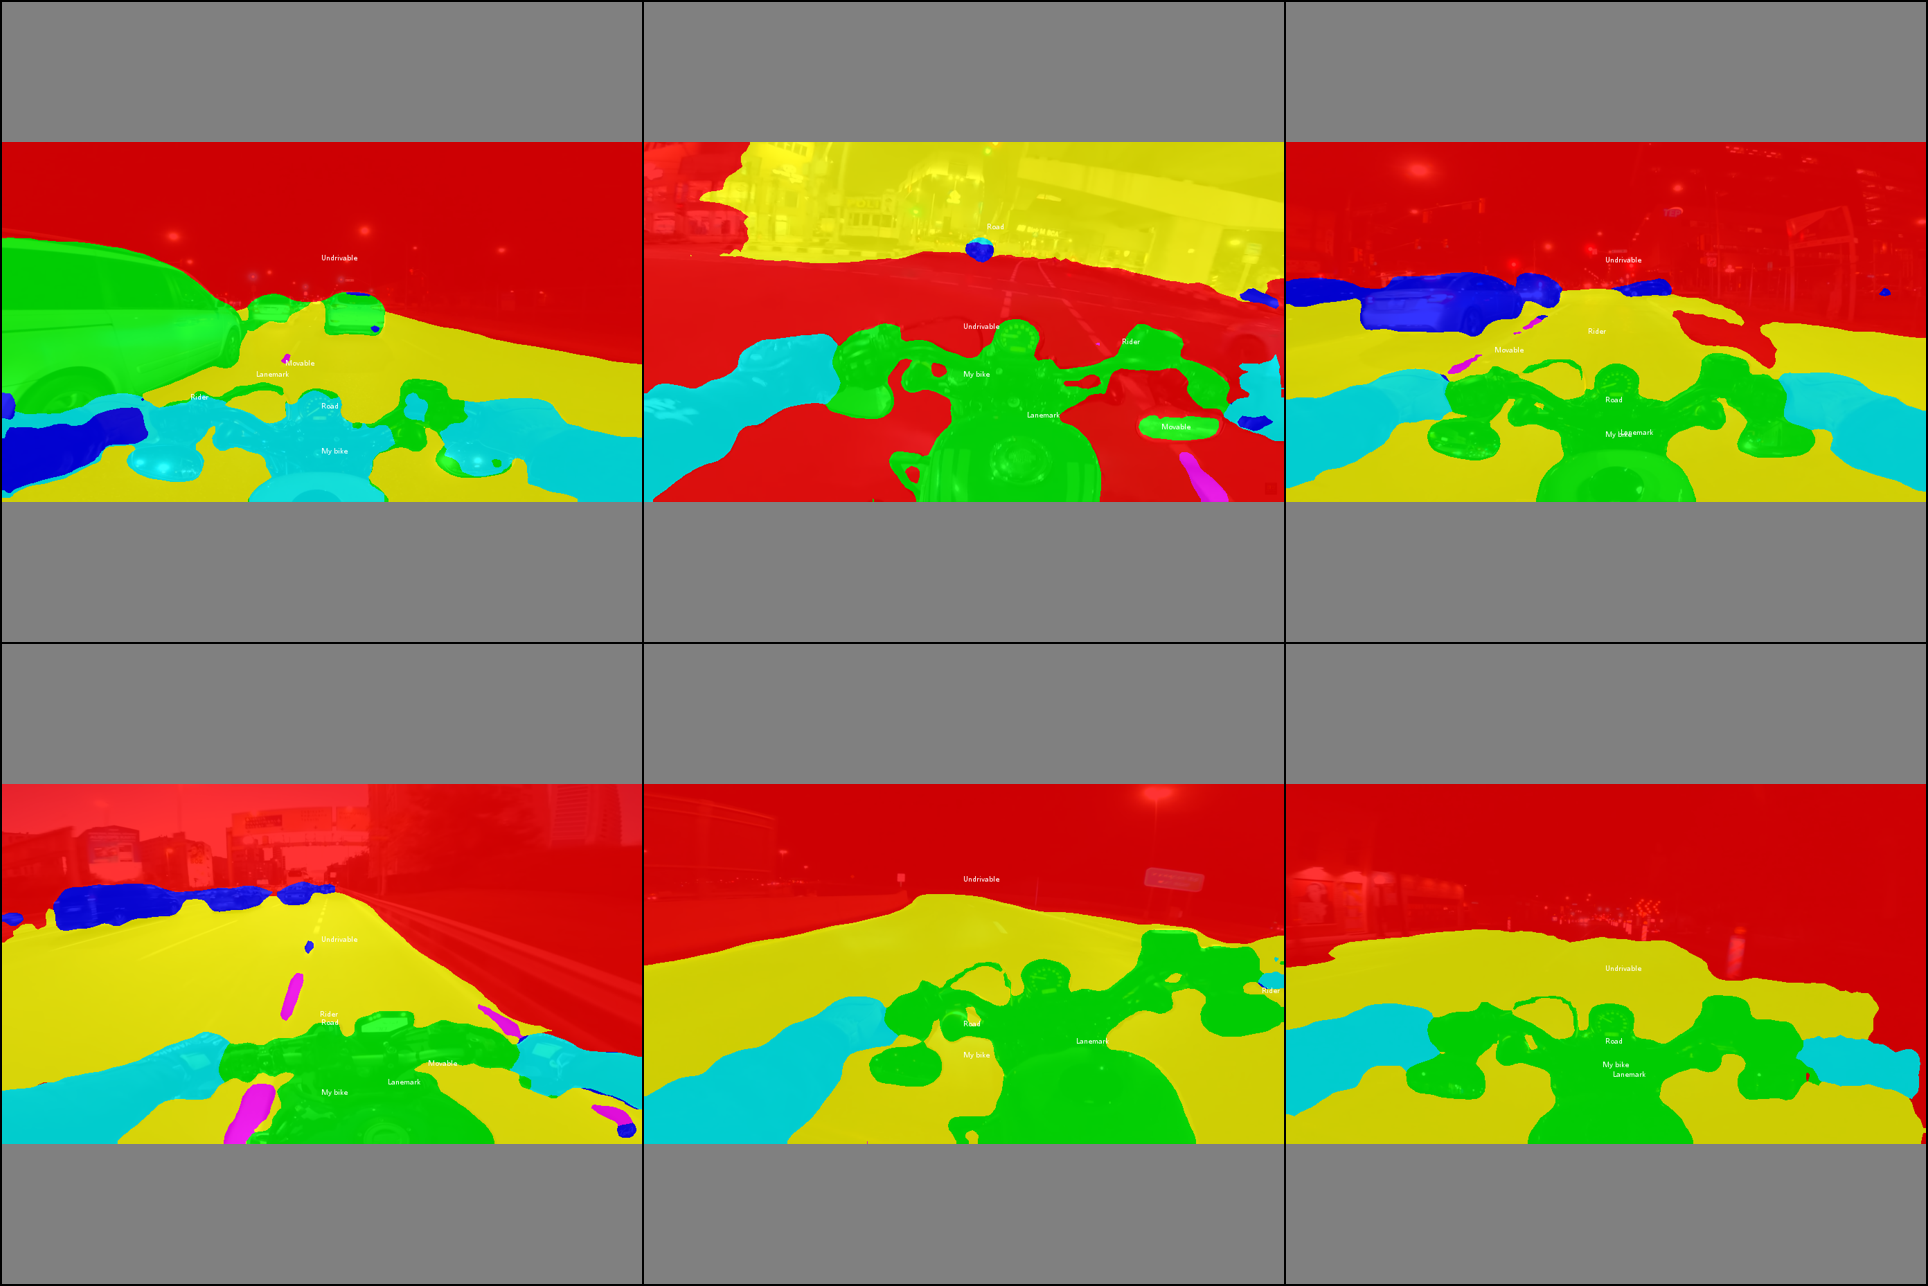
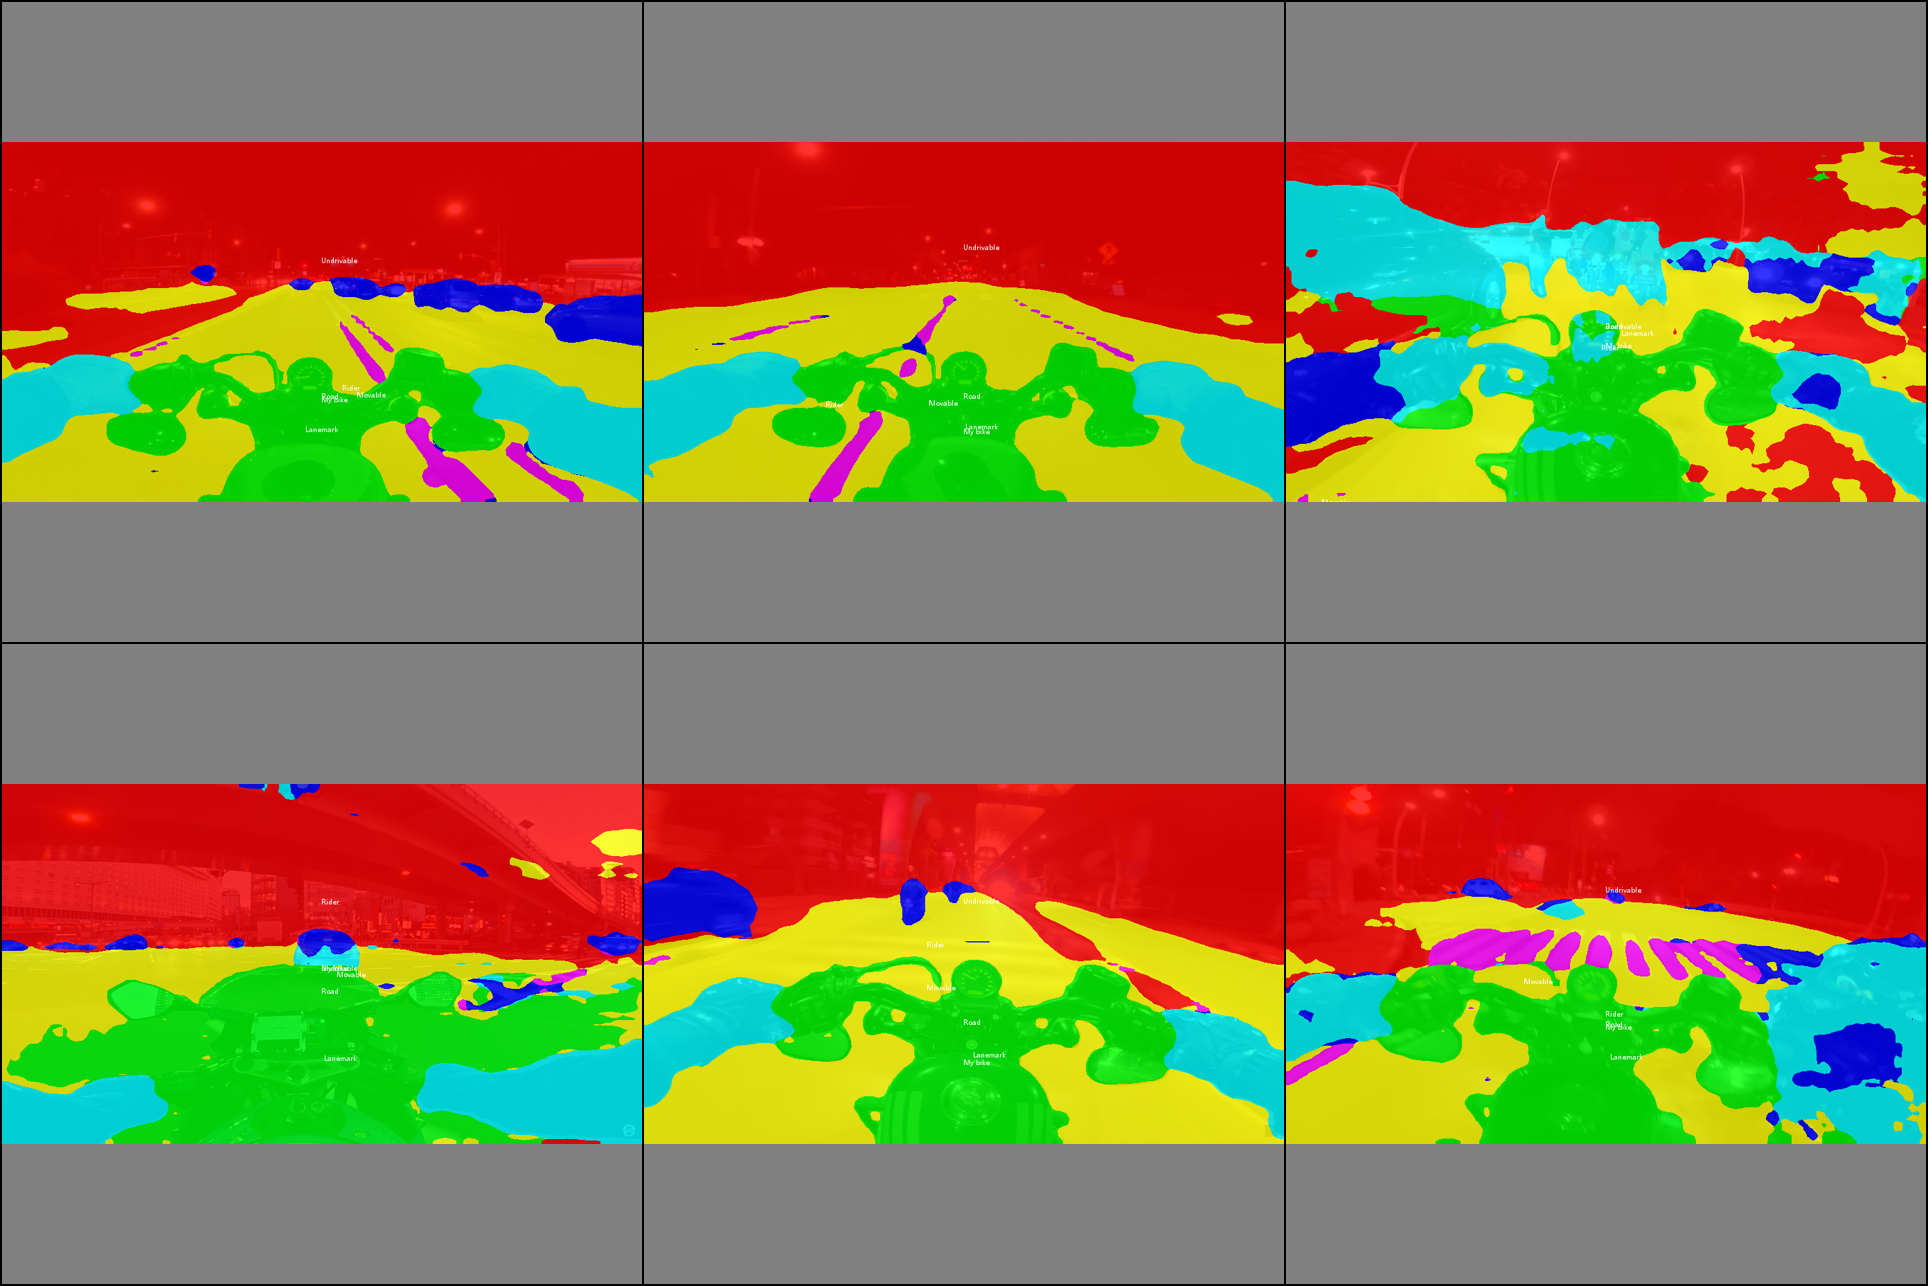
update deeplabv3

diff --git a/deeplabv3/train.py b/deeplabv3/train.py
@@ -10,10 +10,12 @@ from presets import SegmentationPresetTrain, SegmentationPresetEval
 from model import get_model_sematic_segmentation
 
 DATASET_ROOT_PATH = '../../datasets/Motorcycle Night Ride'
-DEFAULT_EPOCHS = 30
+DEFAULT_EPOCHS = 50
 DEFAULT_BATCH_SIZE = 4
 DEFAULT_DEVICE = 'cuda' if torch.cuda.is_available() else 'cpu'
 DEFAULT_SAVE_PATH = 'data/model.pth'
+DEFAULT_WORKERS = 16
+classes = ['Undrivable', 'Road', 'Lanemark', 'My bike', 'Rider', 'Movable']
 
 
 def get_dataloader(opt):
@@ -23,7 +25,8 @@ def get_dataloader(opt):
     :return:
     """
     # 使用数据集
-    train_data = MotorcycleNightRideDataset(DATASET_ROOT_PATH, transforms=SegmentationPresetTrain(base_size=520, crop_size=480))
+    train_data = MotorcycleNightRideDataset(DATASET_ROOT_PATH,
+                                            transforms=SegmentationPresetTrain(base_size=520, crop_size=480))
     test_data = MotorcycleNightRideDataset(DATASET_ROOT_PATH, transforms=SegmentationPresetEval(base_size=520))
 
     # 划分数据集为训练集与测试集
@@ -32,11 +35,11 @@ def get_dataloader(opt):
     test_data = torch.utils.data.Subset(test_data, indices[-50:])
 
     # 定义数据加载器
-    train_dataloader = torch.utils.data.DataLoader(train_data, batch_size=opt.batch_size, shuffle=True, num_workers=4,
-                                                   collate_fn=utils.collate_fn)
+    train_dataloader = torch.utils.data.DataLoader(train_data, batch_size=opt.batch_size, shuffle=True,
+                                                   num_workers=opt.workers, collate_fn=utils.collate_fn)
 
     test_dataloader = torch.utils.data.DataLoader(test_data, batch_size=opt.batch_size, shuffle=False,
-                                                  num_workers=4, collate_fn=utils.collate_fn)
+                                                  num_workers=opt.workers, collate_fn=utils.collate_fn)
     return train_dataloader, test_dataloader
 
 
@@ -72,6 +75,7 @@ def parse_opt():
     parser.add_argument('--batch-size', type=int, default=DEFAULT_BATCH_SIZE, help='batch size')
     parser.add_argument('--device', default=DEFAULT_DEVICE, help='cuda device, i.e. 0 or 0,1,2,3 or cpu')
     parser.add_argument('--save-path', default=DEFAULT_SAVE_PATH, help='model save path')
+    parser.add_argument('--workers', default=DEFAULT_WORKERS, help='max dataloader workers')
     return parser.parse_args()
 
 
@@ -88,14 +92,13 @@ def main(opt):
     # 数据
     train_dataloader, test_dataloader = get_dataloader(opt)
     # 模型
-    classes = ['Undrivable', 'Road', 'Lanemark', 'My bike', 'Rider', 'Movable']
     num_classes = len(classes)
     model = get_model_sematic_segmentation(num_classes).to(opt.device)
     # 参数
     params = [
         {'params': [p for p in model.backbone.parameters() if p.requires_grad]},
         {'params': [p for p in model.classifier.parameters() if p.requires_grad]},
-        # {'params': [p for p in model.aux_classifier.parameters() if p.requires_grad], 'lr': 0.1},
+        {'params': [p for p in model.aux_classifier.parameters() if p.requires_grad], 'lr': 0.1},
     ]
     optimizer = torch.optim.SGD(params, lr=0.01, momentum=0.9, weight_decay=1e-4)  # 优化器
     lr_scheduler = torch.optim.lr_scheduler.PolynomialLR(optimizer, total_iters=len(train_dataloader) * opt.epochs,

diff --git a/deeplabv3/eval.py b/deeplabv3/eval.py
@@ -19,6 +19,8 @@ DATASET_ROOT_PATH = '../../datasets/Motorcycle Night Ride'
 DEFAULT_MODEL_PATH = 'data/model.pth'
 DEFAULT_BATCH_SIZE = 6
 DEFAULT_DEVICE = 'cuda' if torch.cuda.is_available() else 'cpu'
+DEFAULT_WORKERS = 16
+classes = ['Undrivable', 'Road', 'Lanemark', 'My bike', 'Rider', 'Movable']
 
 
 def get_test_data(opt):
@@ -28,16 +30,16 @@ def get_test_data(opt):
     """
     test_data = MotorcycleNightRideDataset(DATASET_ROOT_PATH, transforms=SegmentationPresetEval(base_size=520))
     test_dataloader = torch.utils.data.DataLoader(test_data, batch_size=opt.batch_size, shuffle=True,
-                                                  num_workers=4, collate_fn=utils.collate_fn)
+                                                  num_workers=opt.workers, collate_fn=utils.collate_fn)
 
     x, y = next(iter(test_dataloader))
     x, y = x.to(opt.device), y.to(opt.device)
     return x, y
 
 
-def show_segmentation_result(images, masks, labels, image_size=None, colors=None):
+def show_sematic_segmentation_result(images, masks, labels, image_size=None, colors=None):
     """
-    展示目标检测结果
+    展示语义分割结果
     :param images:
     :param boxes:
     :param labels:
@@ -87,7 +89,7 @@ def show_segmentation_result(images, masks, labels, image_size=None, colors=None
 
 def remove_edge(image):
     """
-    去除图片外围多余黑边
+    去除图片右边以及下边外围多余黑边
     :param image:
     :return:
     """
@@ -131,6 +133,7 @@ def parse_opt():
     parser.add_argument('--model-path', default=DEFAULT_MODEL_PATH, help='model weights path')
     parser.add_argument('--batch-size', type=int, default=DEFAULT_BATCH_SIZE, help='batch size')
     parser.add_argument('--device', default=DEFAULT_DEVICE, help='cuda device, i.e. 0 or 0,1,2,3 or cpu')
+    parser.add_argument('--workers', default=DEFAULT_WORKERS, help='max dataloader workers')
     return parser.parse_args()
 
 
@@ -140,10 +143,8 @@ def main(opt):
     # 数据
     x, y = get_test_data(opt)
     # 模型
-    classes = ['Undrivable', 'Road', 'Lanemark', 'My bike', 'Rider', 'Movable']
     num_classes = len(classes)
     model = get_model_sematic_segmentation(num_classes).to(opt.device)
-    # model = get_model_sematic_segmentation(num_classes).to(opt.device)
     # 参数
     model.load_state_dict(torch.load(opt.model_path))
     # 评估
@@ -165,7 +166,7 @@ def main(opt):
         color = list(map(lambda x: (int(x[0] * 255), int(x[1] * 255), int(x[2] * 255)), color))
         colors = color  # 不去除背景
         # colors = color[1:]  # 去除背景
-        show_segmentation_result(x, masks, labels, image_size=[640, 640], colors=colors)
+        show_sematic_segmentation_result(x, masks, labels, image_size=[640, 640], colors=colors)
 
 
 if __name__ == '__main__':

diff --git a/deeplabv3/model.py b/deeplabv3/model.py
@@ -6,7 +6,7 @@ from torchvision.models.segmentation.fcn import FCNHead
 
 def get_model_sematic_segmentation(num_classes):
     # 加载在COCO上预训练的实例分割模型mask-rcnn
-    model = torchvision.models.segmentation.deeplabv3_resnet50(weights='DEFAULT', weights_backbone='DEFAULT')
+    model = torchvision.models.segmentation.deeplabv3_resnet50(weights='DEFAULT', aux_loss=True, weights_backbone='DEFAULT')
 
     # 获取分类器的输入种类数
     in_channels = model.classifier[0].convs[0][0].in_channels
